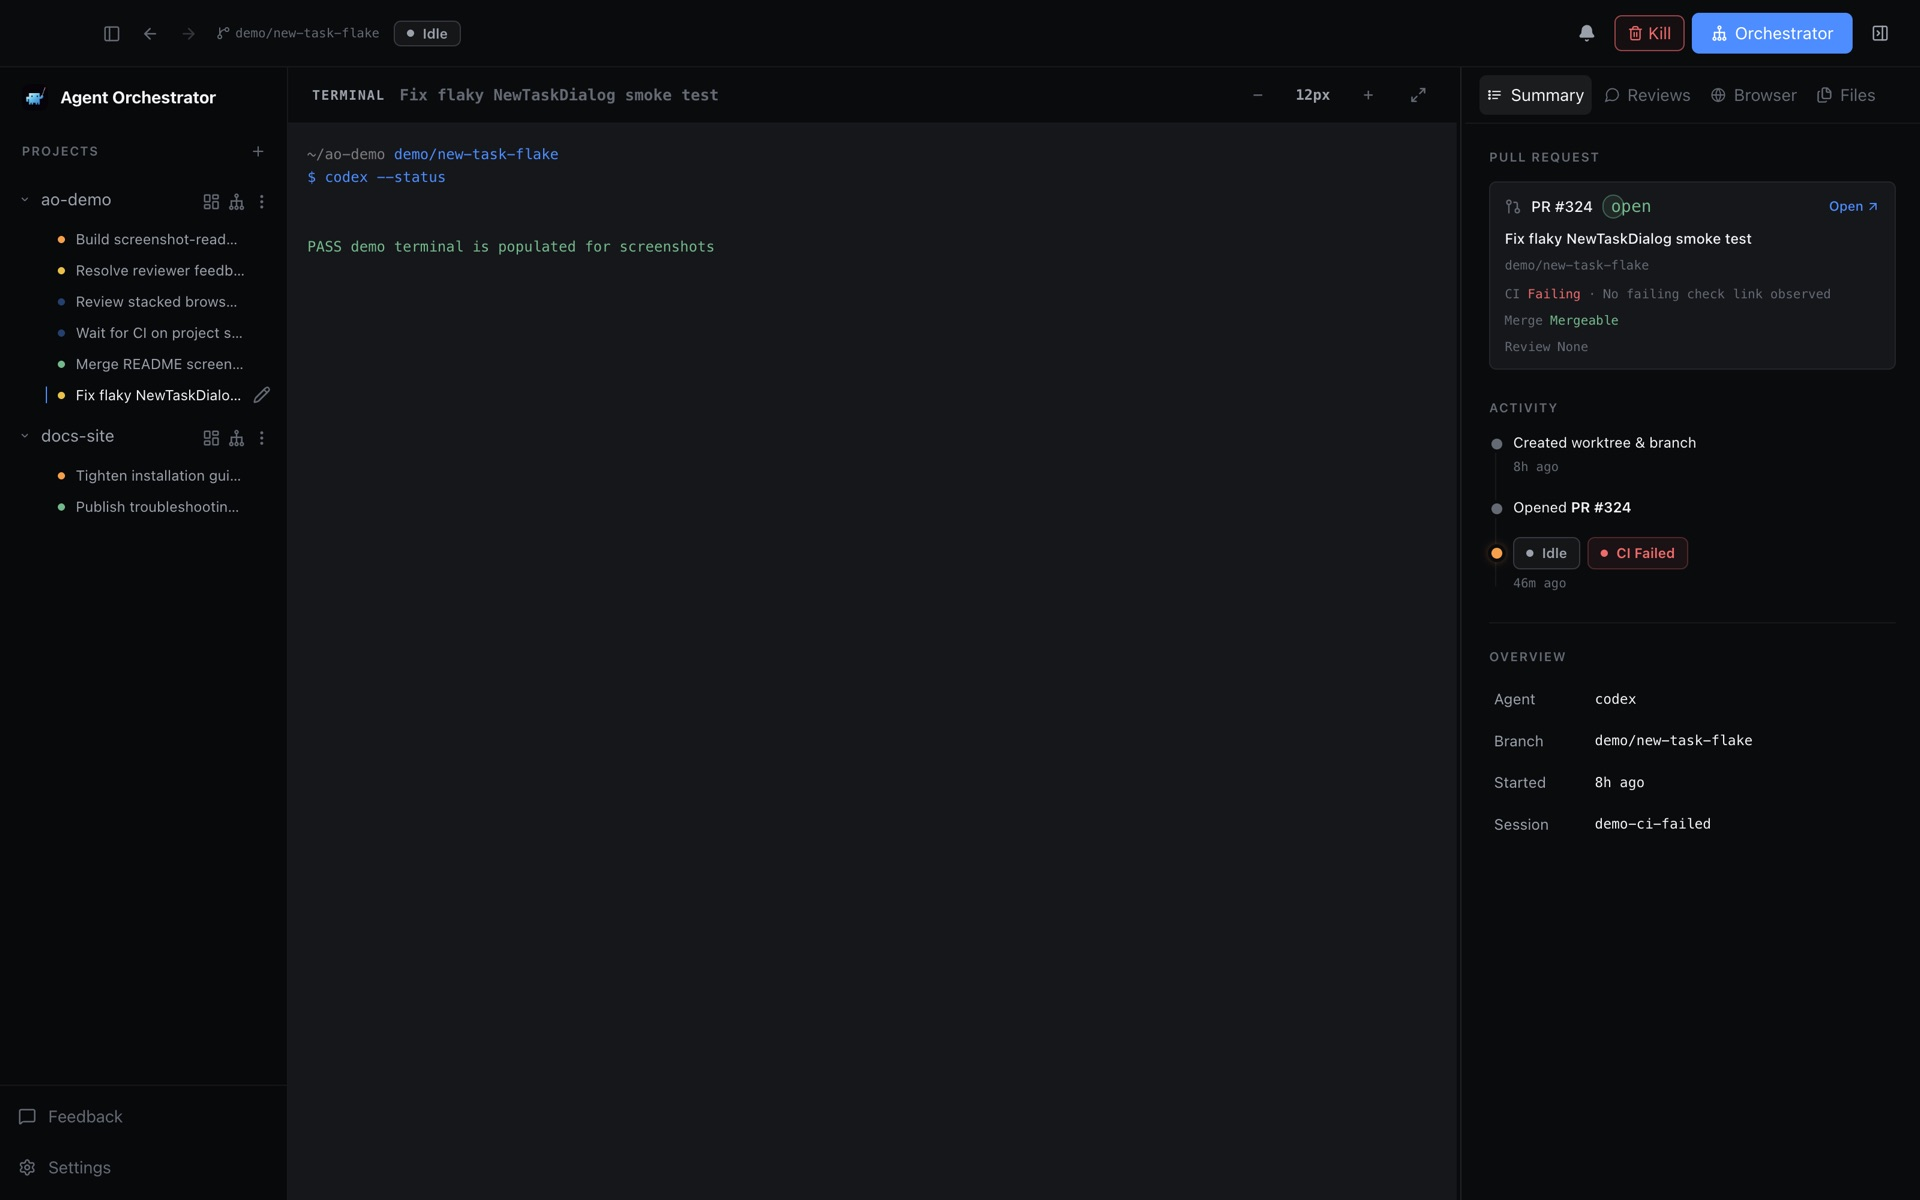
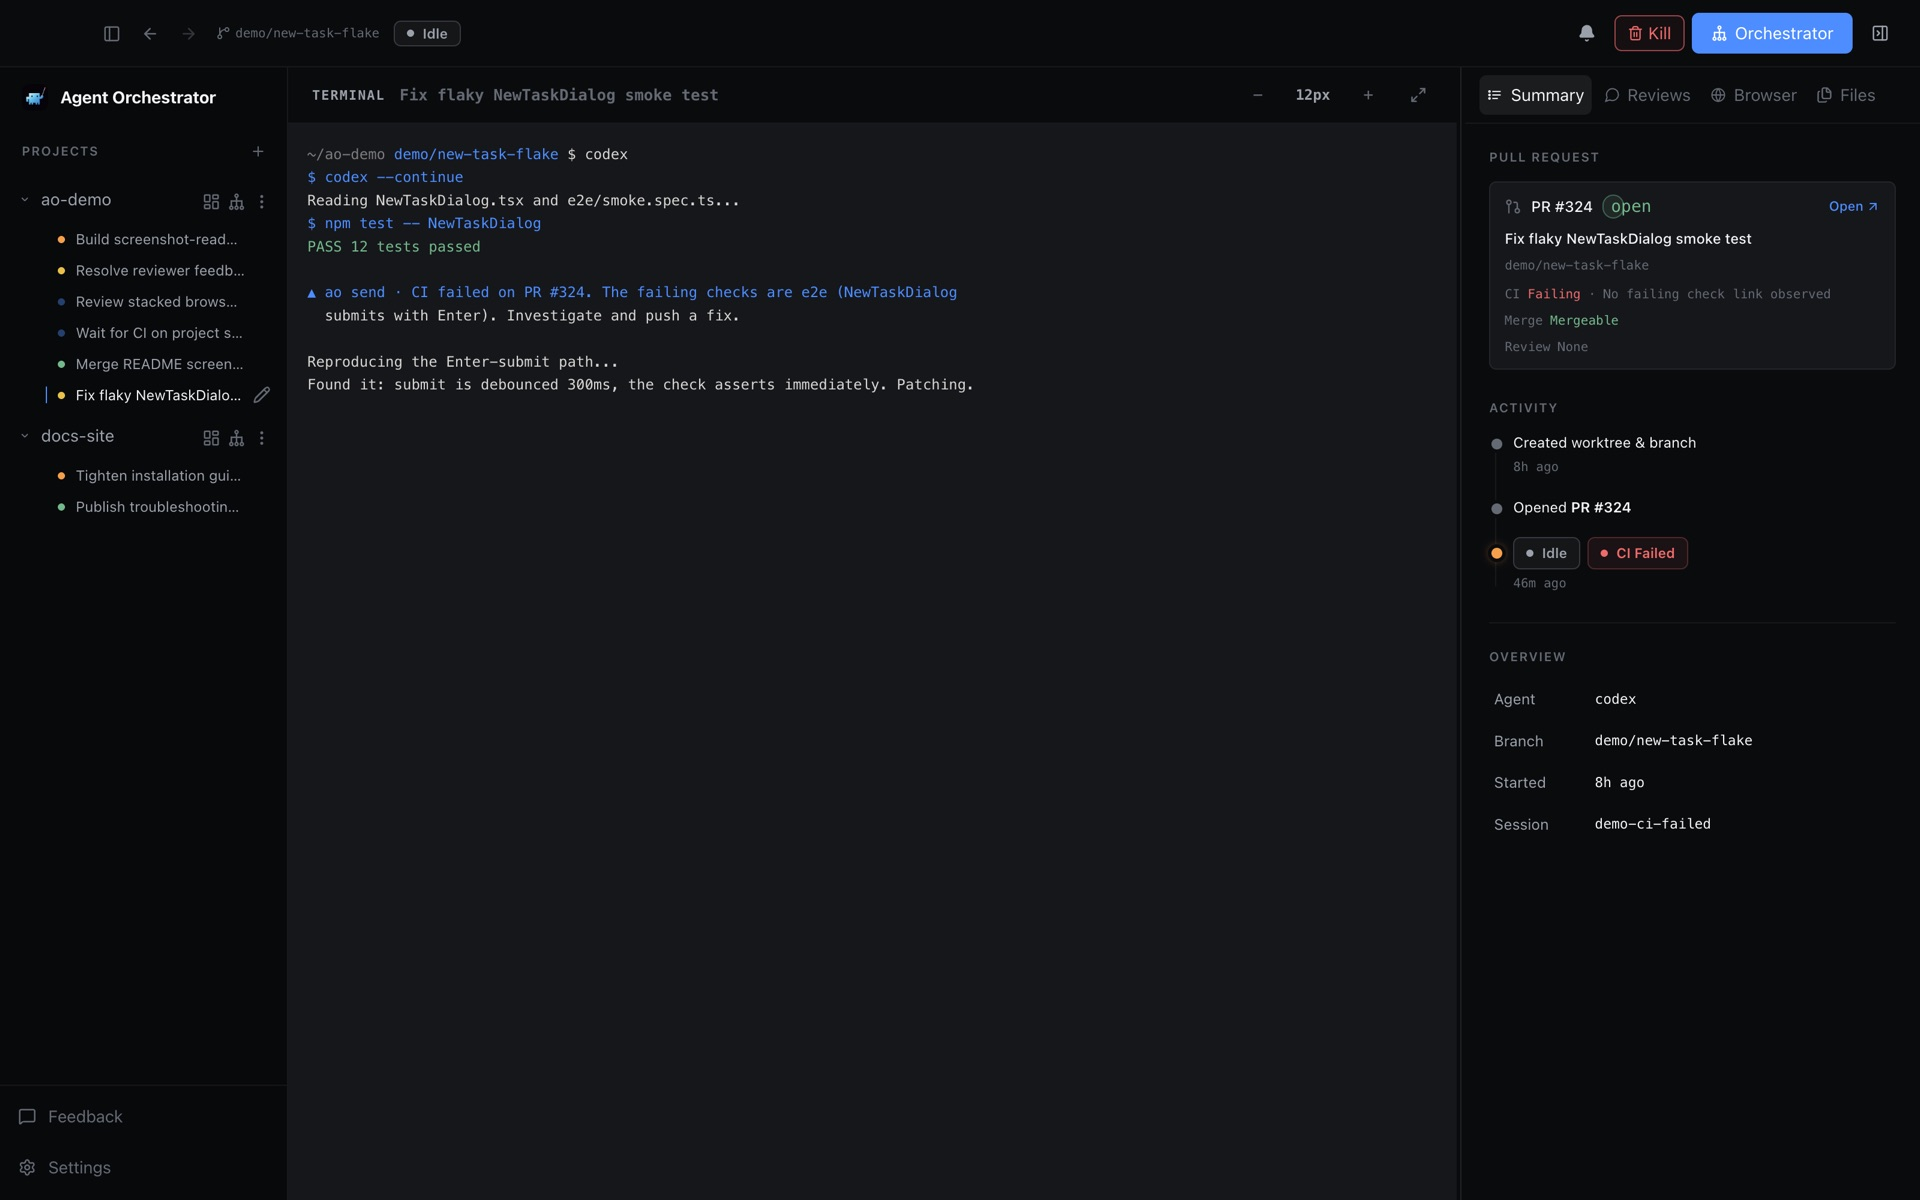
feat(landing): premium CTA styling, clearer quickstart, fuller features shots
- primary CTAs switch from saturated blue fill to quiet ivory (blue stays
  for small accents: italic headline, eyebrows, links)
- nav shows the GitHub star chip at all widths (was hidden below 640px)
- features screenshots go full-width with a soft glow (were ~41% scale
  and unreadable); session shot recaptured with a real agent transcript
  showing AO's CI-failure message routed into the session
- TerminalPane web preview: fix invisible plain lines (text-terminal
  resolved to the terminal background color); AO nudge lines render in
  accent color
- quickstart step 2 is one direct action (gh auth login); step 3 shows
  how users actually work - telling the orchestrator what they need in
  plain words instead of running ao spawn
- drop the defensive 'No staged renders' framing

Changed region(s): [[0.1562, 0.1233, 0.4062, 0.3392], [0.3438, 0.3083, 0.5, 0.3392], [0.4375, 0.2158, 0.5, 0.2467]]

diff --git a/frontend/src/landing/components/LandingFeaturesShowcase.tsx b/frontend/src/landing/components/LandingFeaturesShowcase.tsx
@@ -32,7 +32,7 @@ const features: Feature[] = [
 		body: "AO watches every PR it opens. Failed checks and review comments route back to the session that owns the branch — with the context to fix them — until the PR is approved.",
 		facts: ["CI + review routing", "full activity timeline", "one click to the PR"],
 		src: "/features/session-feedback.jpg",
-		alt: "A session inspector in AO: the agent terminal on the left, and on the right the pull request card showing CI failing, the activity timeline with a CI Failed event, and session details.",
+		alt: "A session inspector in AO: the agent terminal showing a codex session that received an AO message about CI failing on its pull request, next to the pull request card and activity timeline.",
 	},
 ];
 
@@ -50,50 +50,46 @@ export function LandingFeaturesShowcase() {
 						<h2 className="landing-heading">
 							From a one-line task <span className="landing-heading-muted">to a merged PR.</span>
 						</h2>
-						<p className="landing-body-compact mt-5">
-							No staged renders — everything below is the actual AO desktop app, doing actual work.
-						</p>
+						<p className="landing-body-compact mt-5">Everything below is the actual AO desktop app, doing real work.</p>
 					</div>
 
 					<div className="mt-16 flex flex-col gap-20 sm:mt-20 sm:gap-28">
-						{features.map((feature, index) => {
-							const flip = index % 2 === 1;
-							return (
-								<div key={feature.title} className="landing-reveal grid items-center gap-8 lg:grid-cols-12 lg:gap-12">
-									<div className={`lg:col-span-5 ${flip ? "lg:order-2" : ""}`}>
-										<div className="landing-eyebrow landing-eyebrow-accent">{feature.eyebrow}</div>
-										<h3 className="mt-3 text-[26px] font-semibold leading-[1.15] tracking-[-0.02em] text-[color:var(--fg)] sm:text-[32px]">
-											{feature.title}
-										</h3>
-										<p className="mt-4 max-w-[46ch] text-[15px] leading-[1.7] text-[color:var(--fg-muted)]">
-											{feature.body}
-										</p>
-										<div className="mt-5 flex flex-wrap gap-x-5 gap-y-2 font-mono text-[11px] uppercase tracking-[0.1em] text-[color:var(--fg-dim)]">
-											{feature.facts.map((fact) => (
-												<span key={fact} className="inline-flex items-center gap-2">
-													<span className="h-1 w-1 rounded-full bg-[color:var(--accent)]" aria-hidden="true" />
-													{fact}
-												</span>
-											))}
-										</div>
+						{features.map((feature) => (
+							<div key={feature.title} className="landing-reveal">
+								<div className="max-w-[660px]">
+									<div className="landing-eyebrow landing-eyebrow-accent">{feature.eyebrow}</div>
+									<h3 className="mt-3 text-[26px] font-semibold leading-[1.15] tracking-[-0.02em] text-[color:var(--fg)] sm:text-[32px]">
+										{feature.title}
+									</h3>
+									<p className="mt-4 text-[15px] leading-[1.7] text-[color:var(--fg-muted)] sm:text-[16px]">
+										{feature.body}
+									</p>
+									<div className="mt-5 flex flex-wrap gap-x-5 gap-y-2 font-mono text-[11px] uppercase tracking-[0.1em] text-[color:var(--fg-dim)]">
+										{feature.facts.map((fact) => (
+											<span key={fact} className="inline-flex items-center gap-2">
+												<span className="h-1 w-1 rounded-full bg-[color:var(--accent)]" aria-hidden="true" />
+												{fact}
+											</span>
+										))}
 									</div>
-									<div className={`lg:col-span-7 ${flip ? "lg:order-1" : ""}`}>
-										<div className="hero-laptop-screen">
-											<div className="hero-laptop-display">
-												<Image
-													src={feature.src}
-													alt={feature.alt}
-													width={1600}
-													height={1000}
-													className="h-auto w-full"
-													sizes="(min-width: 1024px) 640px, 100vw"
-												/>
-											</div>
+								</div>
+								<div className="relative mt-8 sm:mt-10">
+									<div className="pointer-events-none absolute -inset-4 rounded-2xl bg-[color:var(--accent)] opacity-[0.03] blur-2xl" />
+									<div className="hero-laptop-screen relative">
+										<div className="hero-laptop-display">
+											<Image
+												src={feature.src}
+												alt={feature.alt}
+												width={1600}
+												height={1000}
+												className="h-auto w-full"
+												sizes="(min-width: 1280px) 1180px, 100vw"
+											/>
 										</div>
 									</div>
 								</div>
-							);
-						})}
+							</div>
+						))}
 					</div>
 				</div>
 			</div>

diff --git a/frontend/src/landing/components/LandingInstall.tsx b/frontend/src/landing/components/LandingInstall.tsx
@@ -125,19 +125,14 @@ export function LandingInstall() {
 								</span>
 							</div>
 							<h3 className="mt-4 text-[17px] font-semibold tracking-[-0.01em] text-[color:var(--fg)]">
-								Connect your tools
+								Sign in to GitHub
 							</h3>
 							<p className="mt-2 text-[13.5px] leading-relaxed text-[color:var(--fg-muted)]">
-								AO talks to GitHub through <code className="font-mono text-[12px] text-[color:var(--fg)]">gh</code> and
-								launches the agent CLIs you already have signed in — nothing new to authorize.
+								One command — AO reads issues, PRs, reviews, and CI as you. The agent CLI you already use just works.
+								That's the whole setup.
 							</p>
 							<div className="mt-auto flex flex-col gap-2.5 pt-5">
 								<CopyCommand command="gh auth login" label="GitHub CLI login command" className="w-full" />
-								<div className="flex flex-wrap gap-x-4 gap-y-1.5 pt-1 font-mono text-[11px] text-[color:var(--fg-dim)]">
-									<span>git</span>
-									<span>tmux</span>
-									<span>claude / codex / cursor / aider…</span>
-								</div>
 							</div>
 						</div>
 
@@ -152,18 +147,19 @@ export function LandingInstall() {
 								</span>
 							</div>
 							<h3 className="mt-4 text-[17px] font-semibold tracking-[-0.01em] text-[color:var(--fg)]">
-								Spawn your first agents
+								Tell the orchestrator what you need
 							</h3>
 							<p className="mt-2 text-[13.5px] leading-relaxed text-[color:var(--fg-muted)]">
-								Point AO at a repo, describe a task, and it creates the worktree, branch, and session. Watch the PR land
-								from the board.
+								Just say it in plain words. The orchestrator plans the work, spawns workers into their own worktrees,
+								and you watch the PRs land on the board.
 							</p>
 							<div className="mt-auto flex flex-col gap-2.5 pt-5">
-								<CopyCommand
-									command='ao spawn --prompt "fix the flaky login test"'
-									label="ao spawn command"
-									className="w-full"
-								/>
+								<div className="rounded-md border border-[color:var(--border)] bg-[color:var(--bg-deep)] px-4 py-3 text-[13px] leading-relaxed text-[color:var(--fg-muted)]">
+									<span className="text-[color:var(--fg-dim)]">You → </span>
+									<span className="italic text-[color:var(--fg)]">
+										“Go through my Linear backlog and let’s brainstorm what tasks to spawn.”
+									</span>
+								</div>
 								<Link
 									href="/docs/quickstart"
 									className="group inline-flex items-center gap-1.5 pt-1 text-[12.5px] font-medium text-[color:var(--accent)]"

diff --git a/frontend/src/renderer/components/TerminalPane.tsx b/frontend/src/renderer/components/TerminalPane.tsx
@@ -31,7 +31,7 @@ export function TerminalPane({ session, theme, daemonReady, terminalTarget, font
 			terminalTarget?.kind === "reviewer" ? reviewerPreviewLines(session) : workerPreviewLines(session, provider);
 		return (
 			<pre
-				className="h-full overflow-auto bg-terminal p-4 font-mono leading-relaxed text-terminal"
+				className="h-full overflow-auto bg-terminal p-4 font-mono leading-relaxed text-terminal-foreground"
 				style={{ fontSize }}
 			>
 				<span className="text-terminal-dim">~/{session?.workspaceName ?? "reverbcode"}</span>{" "}
@@ -45,9 +45,9 @@ export function TerminalPane({ session, theme, daemonReady, terminalTarget, font
 								? "text-success"
 								: line.startsWith("WARN") || line.startsWith("TODO")
 									? "text-warning"
-									: line.startsWith("$")
+									: line.startsWith("$") || line.startsWith("▲")
 										? "text-accent"
-										: "text-terminal"
+										: "text-terminal-foreground"
 						}
 					>
 						{line}
@@ -100,6 +100,20 @@ function workerPreviewLines(session: WorkspaceSession | undefined, provider: str
 			"frontend/src/renderer/styles.css                 | 27 +++++++++++",
 			"WARN reviewer requested a tighter terminal activity sample",
 			"TODO confirm whether to keep the toolbar density change",
+		];
+	}
+	if (session?.id === "demo-ci-failed") {
+		return [
+			`$ ${provider} --continue`,
+			"Reading NewTaskDialog.tsx and e2e/smoke.spec.ts...",
+			"$ npm test -- NewTaskDialog",
+			"PASS 12 tests passed",
+			"",
+			"▲ ao send · CI failed on PR #324. The failing checks are e2e (NewTaskDialog",
+			"  submits with Enter). Investigate and push a fix.",
+			"",
+			"Reproducing the Enter-submit path...",
+			"Found it: submit is debounced 300ms, the check asserts immediately. Patching.",
 		];
 	}
 	return [

diff --git a/frontend/src/landing/styles/globals.css b/frontend/src/landing/styles/globals.css
@@ -168,6 +168,19 @@ body::-webkit-scrollbar,
 	opacity: 0.9;
 }
 
+/* Primary CTA: quiet ivory fill instead of a saturated accent — the premium
+   pattern (Cursor, Linear). Blue stays for small accents only. */
+.btn-primary {
+	background: #f2f1ed;
+	border: 1px solid rgba(255, 255, 255, 0.16);
+	color: #17161a;
+}
+
+.btn-primary:hover {
+	background: #ffffff;
+	border-color: rgba(255, 255, 255, 0.28);
+}
+
 .landing-nav-link {
 	color: var(--fg);
 	transition: color 180ms ease-out;

diff --git a/frontend/src/landing/components/LandingCTA.tsx b/frontend/src/landing/components/LandingCTA.tsx
@@ -73,8 +73,7 @@ export function LandingCTA() {
 							<a
 								href={downloadTarget.href}
 								data-testid="cta-download-btn"
-								className="hero-pressable inline-flex h-12 w-full items-center justify-center gap-2 rounded-[6px] border border-[color:var(--accent)] bg-[color:var(--accent)] px-7 text-[15px] font-semibold text-[#11140c] hover:brightness-110 sm:w-auto"
-								style={{ color: "#11140c" }}
+								className="hero-pressable btn-primary inline-flex h-12 w-full items-center justify-center gap-2 rounded-[6px] px-7 text-[15px] font-semibold sm:w-auto"
 							>
 								<DownloadIcon className="h-4 w-4" />
 								{downloadTarget.label}
@@ -85,8 +84,7 @@ export function LandingCTA() {
 								target="_blank"
 								rel="noreferrer"
 								data-testid="cta-download-btn"
-								className="hero-pressable inline-flex h-12 w-full items-center justify-center gap-2 rounded-[6px] border border-[color:var(--accent)] bg-[color:var(--accent)] px-7 text-[15px] font-semibold text-[#11140c] hover:brightness-110 sm:w-auto"
-								style={{ color: "#11140c" }}
+								className="hero-pressable btn-primary inline-flex h-12 w-full items-center justify-center gap-2 rounded-[6px] px-7 text-[15px] font-semibold sm:w-auto"
 							>
 								<DownloadIcon className="h-4 w-4" />
 								Download the app

diff --git a/frontend/src/landing/components/LandingHero.tsx b/frontend/src/landing/components/LandingHero.tsx
@@ -1153,8 +1153,7 @@ export function LandingHero() {
 						{downloadTarget ? (
 							<a
 								href={downloadTarget.href}
-								className="hero-pressable group inline-flex h-12 w-full items-center justify-center gap-2 rounded-[6px] border border-[color:var(--accent)] bg-[color:var(--accent)] px-6 text-[15px] font-semibold text-[#11140c] hover:brightness-110 sm:w-auto"
-								style={{ color: "#11140c" }}
+								className="hero-pressable btn-primary group inline-flex h-12 w-full items-center justify-center gap-2 rounded-[6px] px-6 text-[15px] font-semibold sm:w-auto"
 							>
 								<DownloadIcon className="h-4 w-4" />
 								{downloadTarget.label}
@@ -1164,8 +1163,7 @@ export function LandingHero() {
 								href={GITHUB_REPO_URL}
 								target="_blank"
 								rel="noreferrer"
-								className="hero-pressable group inline-flex h-12 w-full items-center justify-center gap-2 rounded-[6px] border border-[color:var(--accent)] bg-[color:var(--accent)] px-6 text-[15px] font-semibold text-[#11140c] hover:brightness-110 sm:w-auto"
-								style={{ color: "#11140c" }}
+								className="hero-pressable btn-primary group inline-flex h-12 w-full items-center justify-center gap-2 rounded-[6px] px-6 text-[15px] font-semibold sm:w-auto"
 							>
 								<GithubIcon className="h-4 w-4" />
 								Get Agent Orchestrator

diff --git a/frontend/src/landing/components/LandingNav.tsx b/frontend/src/landing/components/LandingNav.tsx
@@ -179,7 +179,7 @@ export function LandingNav() {
 						rel="noreferrer"
 						aria-label={`Star Agent Orchestrator on GitHub${stars ? ` — ${stars} stars` : ""}`}
 						title="Star on GitHub"
-						className="group/starchip hidden h-8 items-center gap-1.5 rounded-full border border-[color:var(--border)] bg-[color:var(--bg-elevated)] pl-2.5 pr-3 text-[12px] font-semibold text-[color:var(--fg-muted)] transition-[color,border-color,background-color] duration-300 hover:border-[color:var(--accent-glow)] hover:text-[color:var(--fg)] sm:inline-flex"
+						className="group/starchip inline-flex h-8 items-center gap-1.5 rounded-full border border-[color:var(--border)] bg-[color:var(--bg-elevated)] pl-2.5 pr-3 text-[12px] font-semibold text-[color:var(--fg-muted)] transition-[color,border-color,background-color] duration-300 hover:border-[color:var(--accent-glow)] hover:text-[color:var(--fg)]"
 					>
 						<GithubIcon className="h-3.5 w-3.5" />
 						<StarIcon className="h-3 w-3 text-[color:var(--fg-dim)] transition-colors duration-300 group-hover/starchip:text-[#ffd35c]" />
@@ -206,8 +206,7 @@ export function LandingNav() {
 					</div>
 					<a
 						href={downloadHref}
-						className="hero-pressable hidden h-9 items-center gap-1.5 rounded-full bg-[color:var(--accent)] px-4 text-[13px] font-semibold text-[#11140c] hover:brightness-110 md:inline-flex"
-						style={{ color: "#11140c" }}
+						className="hero-pressable btn-primary hidden h-9 items-center gap-1.5 rounded-full px-4 text-[13px] font-semibold md:inline-flex"
 					>
 						Download
 					</a>